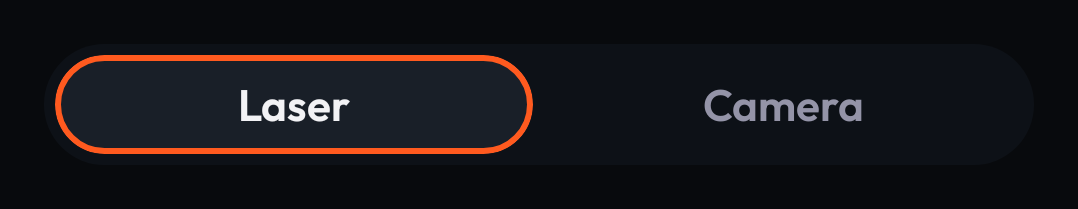
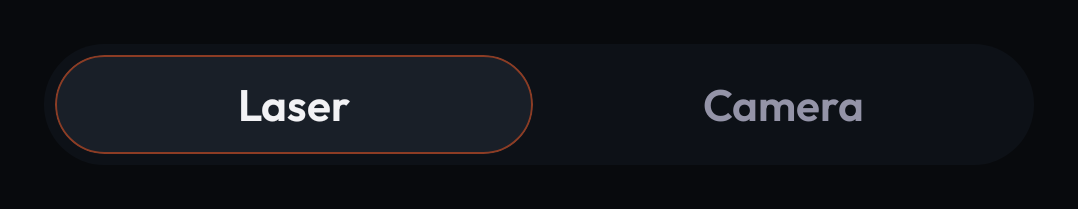
Use a 0.5dp outline for the selected segment

Changed region(s): [[0.0612, 0.4306, 0.5204, 0.7464], [0.0612, 0.2584, 0.4898, 0.4306], [0.0306, 0.3732, 0.0612, 0.6316]]

diff --git a/jenga/src/androidMain/kotlin/io/github/joelkanyi/jenga/component/tabs/JengaSegmentedControlPreviews.kt b/jenga/src/androidMain/kotlin/io/github/joelkanyi/jenga/component/tabs/JengaSegmentedControlPreviews.kt
@@ -84,7 +84,7 @@ internal fun JengaSegmentedControlOutlinedPreview() {
             segments = listOf("Laser", "Camera"),
             onSelect = {},
             modifier = Modifier.background(JengaTheme.colors.background).padding(JengaTheme.spacing.lg),
-            colors = JengaSegmentedControlDefaults.colors().copy(selectedBorder = JengaTheme.colors.brand),
+            colors = JengaSegmentedControlDefaults.colors().copy(selectedBorder = JengaTheme.colors.brand.copy(alpha = 0.5f)),
         )
     }
 }

diff --git a/jenga/src/commonMain/kotlin/io/github/joelkanyi/jenga/component/tabs/JengaSegmentedControl.kt b/jenga/src/commonMain/kotlin/io/github/joelkanyi/jenga/component/tabs/JengaSegmentedControl.kt
@@ -257,4 +257,4 @@ private fun segmentContentColor(colors: JengaSegmentedControlColors, selected: B
     else -> colors.unselectedContent
 }
 
-private val SelectedBorderWidth = 2.dp
+private val SelectedBorderWidth = 0.5.dp
